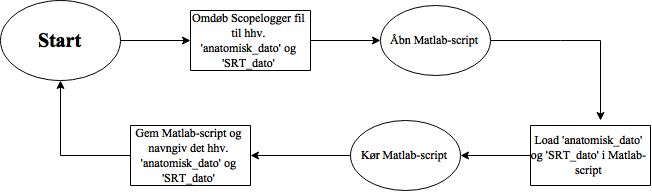
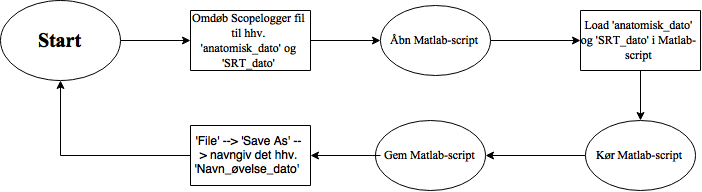
software

diff --git a/rapportAfsnit/eProblemloesning/Design/Software.tex b/rapportAfsnit/eProblemloesning/Design/Software.tex
@@ -1,0 +1,43 @@
+% !TeX spellcheck = da_DK
+\subsection{Software}
+\subsubsection{Teori og design}
+Efter konverteringen af det analoge signal til digitalt i ADC’en indsendes data til en computer. Jævnfør afsnit \ref{subsec:software}, side \pageref{subsec:software} skal patienternes data behandles i form af grafisk visualisering af deres hældningsresultater, samt gemmes til senere brug og analyse. For at imødekomme disse krav, bruges en computer med software programmerne; Scopelogger og Matlab, hvor Scopelogger anvendes til at optage det  digitale signal fra NIDAQ'en og Matlab benyttes til at behandle opsamlede data. Til behandling og lagring af data udarbejdes en manual for at gøre pogrammets design brugervenligt for det fagkyndige personale, som skal bruge disse data til analyse af patienternes udvikling ift. balancefunktionen. For at programmet skal kunne fungere med en switch knap, jævnfør afsnit \ref{formål_anvendelse}, side \pageref{formål_anvendelse} skal patienternes øvelsesresultater gemmes alt efter pågældende udførte øvelse hhv. 'anatomisk_data' og 'SRT_dato'. 
+Det fagkyndige personale skal åbne scriptet 'Patient_Oevelse' i Matlab for at kunne køre computerprogrammet, der skal behandle apopleksipatienternes data fra Scopelogger. Indsamlede data navngives alt efter den pågældende øvelse, der er udført og hentes ind i Matlab. Af nedestående flowdiagram \ref{Flow_manual} fremgår computerprogrammets manual.
+
+\begin{figure}[H] 
+	\centering 
+	\includegraphics[scale=0.5]{figures/cProblemloesning/Flow_manual.PNG}
+	\caption{af flowdiagrammet fremgår computerprogrammets manual, der omhandler hvorledes det fagkyndige skal behandle og gemme apopleksiatienterne øvelsesresultater}
+	\label{Flow_manual}
+\end{figure} 
+
+Når patientens pågældende øvelse er loadet i Matlab-scriptet ændres grafens titel ift. patientens navn og dato på hvornår øvelsen er udført. Efter Matlab-scriptet er kørt vil der fremkomme en graf af patienternes hældning, hvor tærskelværdierne vil være markeret med horisontale linjer i hhv. gul, grøn, rød og sort. Det fagkyndige personale kan derfor se, hvor hyppigt patienterne har bevæget sig ud i det enkelte risikozoner. Derudover kan det fagkyndige personale ændre på grafens tidsaksen, så der er mulighed for at udvælge data i en bestemt tidsperiode, da selvtrænings sessionen kan have forskellig varighed afhængig af den enkelte patient. På denne måde kan det fagkyndige personale udvælge og undersøge data i en specifik tidsperiode, hvis dette har interesse for analysen af patienternes øvelsesresultater.  
+
+\subsubsection{Implementering og test}
+For at teste computerprogrammet foretages en testmåling af hele systemet og efter konverteringen i ADC'en anvendes ovenstående manual til at visualisere en graf, samt gemme data. 
+
+TEST AF SOFTWARE IND HER. TJEK AT VI TESTER FOR KRAVSPECIFIKATIONER
+
+
+Blokken indeholdende softwaren implementeres i systemet for at kunne behandle og gemme patienternes øvelsesresultater. Denne del af systemet er brugerfladen for det fagkyndige personale og skal derfor kunne fremvise information omkring patienternes balance i form af grafer eller lignende. Det fagkyndige personale skal vha. af softwaren kunne følge med i patienternes udvikling ift. balancen. \\
+\textbf{Krav:}
+\begin{itemize}
+	\item Skal kunne fremvise data med information om patientens hældning i de enkelte øvelser, herunder hvor ofte patienten har bevæget sig ud i risikozonerne. 
+	\item Skal kunne gemme data med information om patientens hældning.
+	%\item Skal være brugervenligt for det fagkyndige personale, dvs. designet af programmet skal være enkelt. 
+\end{itemize}
+\textbf{Tolerance:}
+\begin{itemize}
+	\item Der accepteres ingen afvigelse ift. software. 
+\end{itemize}
+
+%Vi kunne for at gøre programmet mere brugervenligt udarbejde en manual til systemet. Derudover kunne det være fordelagtigt at det fagkyndige personalet at have mulighed for at ændre akserne, og her tænkes specielt tidsaksen. Dette tænkes da systemet skal kunne optage selvtræning og da det ikke forventes at patienten tænder og slukker systemet efter hver enkelt øvelse. Dette vil både være svært at huske for patientgruppe (gamle og måske med kognitive komplikationer) og så ville de måske glemme at slå den til igen. Derfor tænkes det at de lader systemet optage signaler under hele selvtrænings sessionen. Det vil midlertidigt blive til utrolig meget data, hvor en stor del af dataen vil være pauser for patienten og derved ubrugelig data for det fagkyndige personale. Det ville derfor være smart at hvis de forholdsvis nemt kunne udvælge perioder i dataen, de gerne vil undersøge nærmere. 
+%Derudover skal vi også have gjort patienten og det fagkyndige personale opmærksomme på hvilken øvelse der foretages!
+%Det kunne måske være en ide, at vi i grafen kunne ligge tærskelværdierne ind som en form for linjer, så det blev nemmere at aflæse grafen
+%Skal vi have en løbende visning af signalet i en graf eller er det bare til sidst! 
+
+%Vores program skal altså kunne:
+%  -Optage signalet
+% - Behandle signalet således, alt efter sværhedsgrad 
+%  - Plotte signalet
+% - Gem data'en 
